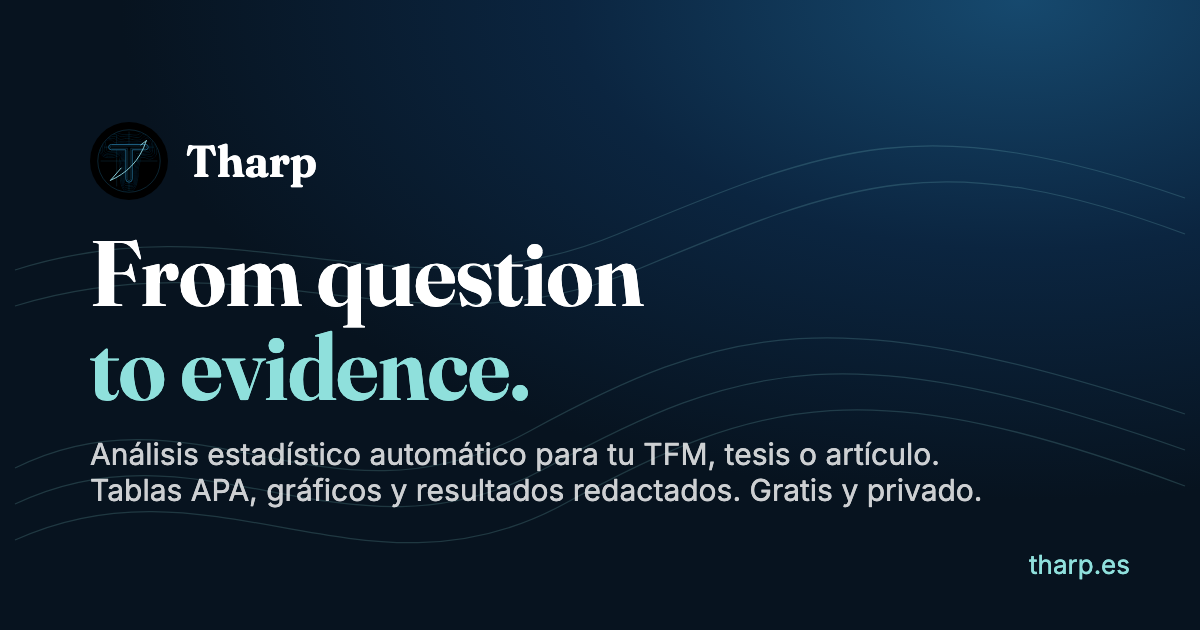
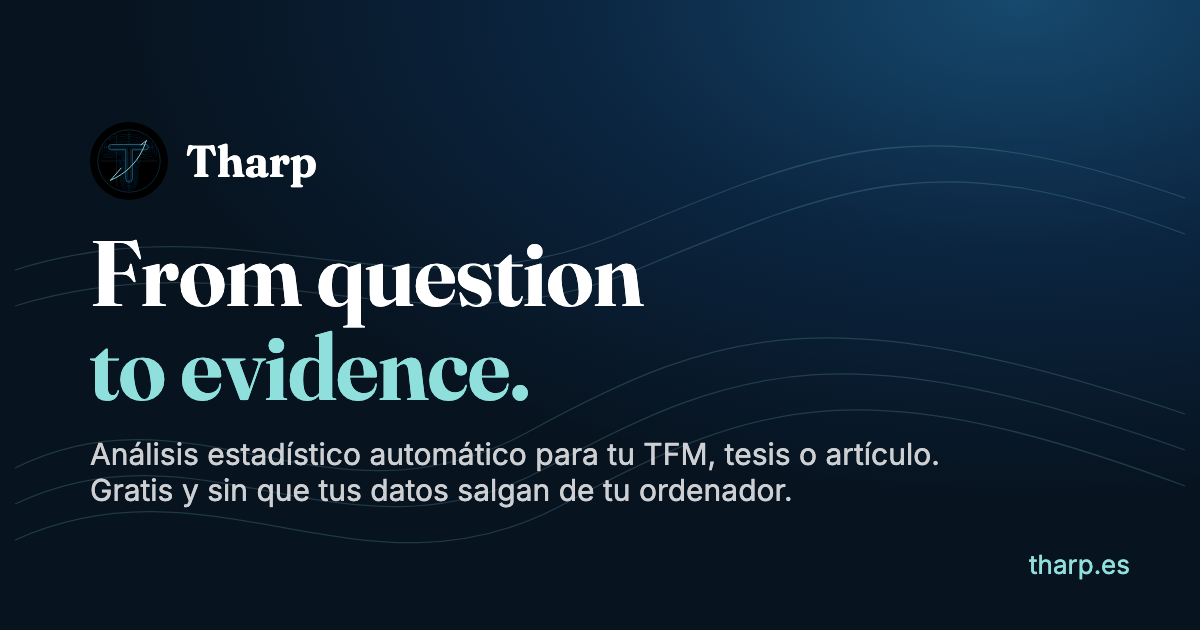
Texto de la imagen para redes (tharp@52f596c)

Changed region(s): [[0.0617, 0.754, 0.8017, 0.8143]]

diff --git a/index.html b/index.html
@@ -12,7 +12,7 @@
 <meta property="og:locale" content="es_ES">
 <meta property="og:url" content="https://tharp.es/">
 <meta property="og:title" content="Tharp · From question to evidence">
-<meta property="og:description" content="Análisis estadístico automático para investigación: supuestos, pruebas, tablas APA, gráficos y resultados redactados. Gratis y privado.">
+<meta property="og:description" content="Análisis estadístico automático para investigación: supuestos, pruebas, tablas APA, gráficos y resultados redactados. Gratis y sin que tus datos salgan de tu ordenador.">
 <meta property="og:image" content="https://tharp.es/img/og.png">
 <meta property="og:image:width" content="1200">
 <meta property="og:image:height" content="630">
